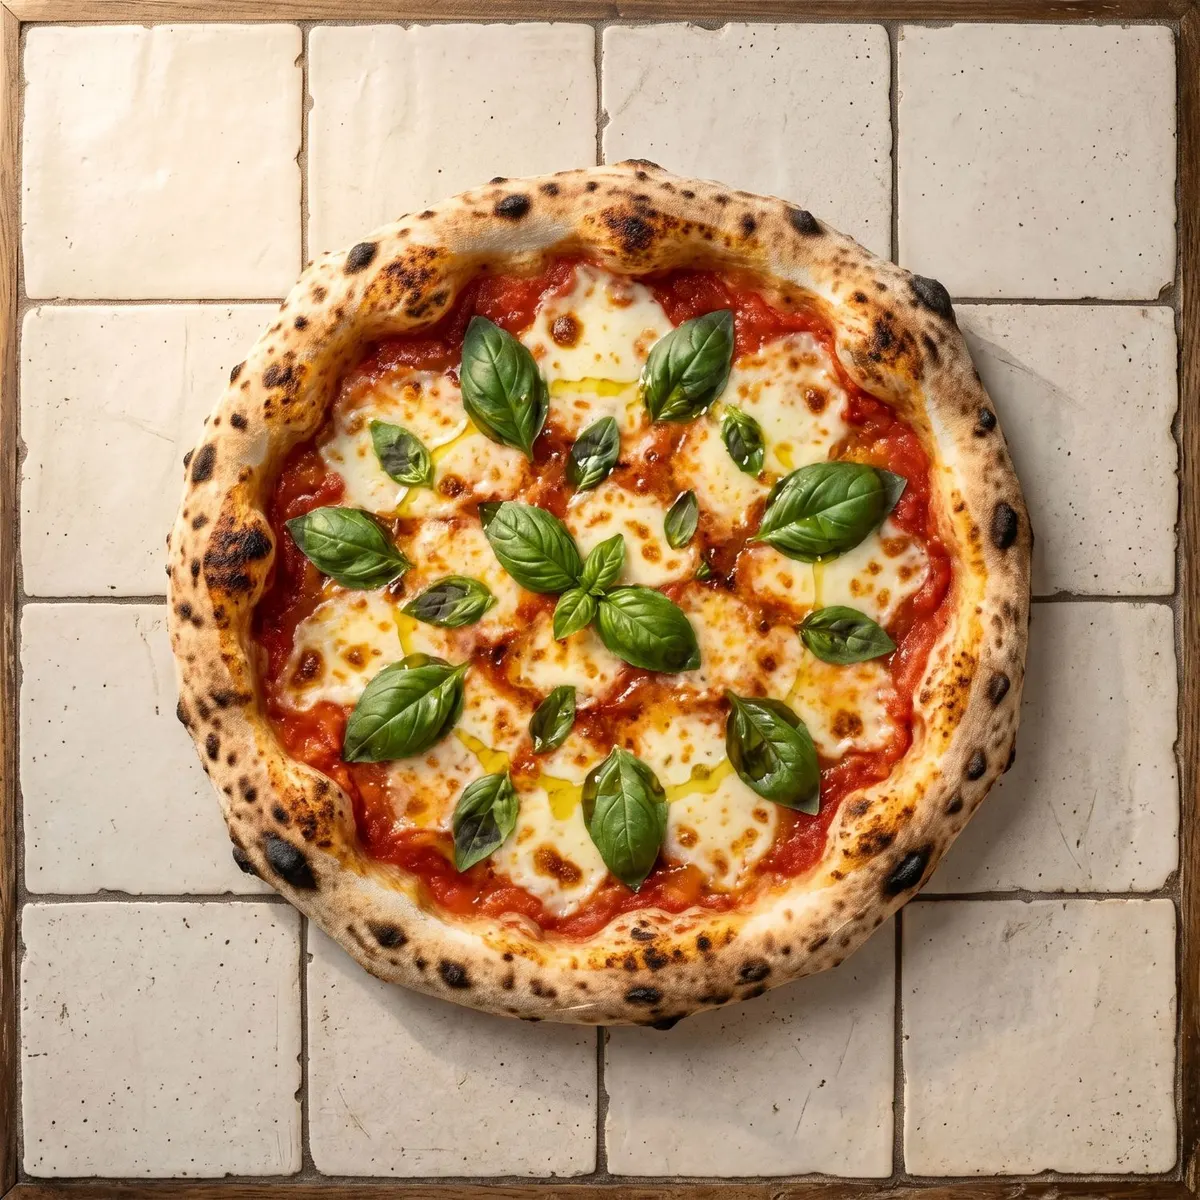
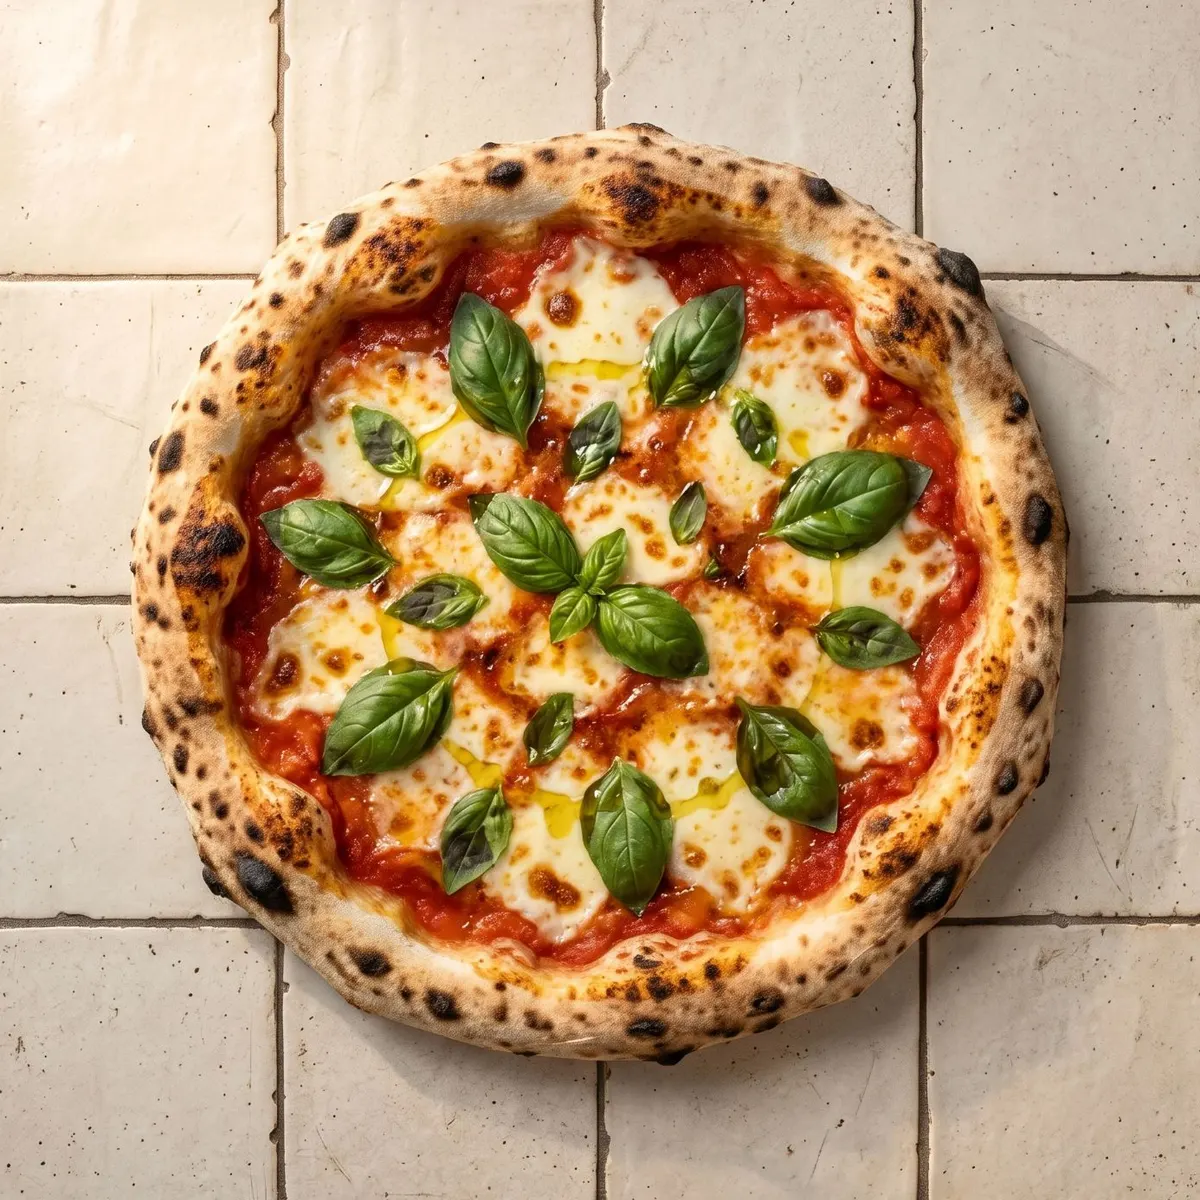
Recorta el marco de madera de cinco clasicas y arregla Nuestra historia en movil
Las fotos de Margarita, Prosciutto, Hawaiana, Salami y Pepperoni
traian un marco de madera que no tiene el resto. En Nuestra historia
el texto se rompia en cinco lineas y las nubes tapaban las palabras.

Claude-Session: https://claude.ai/code/session_011JAHqVBjNfak5pUxNHmvGn

diff --git a/src/components/Story.jsx b/src/components/Story.jsx
@@ -46,8 +46,8 @@ export default function Story() {
             d="M0,0H1440V22c-22,0-30,14-30,30s-14,24-26,24-26-10-26-26-12-26-34-28c-40-4-58,6-96,6s-42-8-70-8-30,22-30,40-12,26-24,26-24-10-24-28-14-34-50-36c-44-2-70,8-120,8s-60-6-86-6-34,14-34,30-10,22-22,22-22-10-22-24-18-30-58-32c-48-2-66,4-104,4s-52-6-80-6-30,24-30,44-12,30-26,30-26-12-26-30-10-40-44-42c-38-2-62,6-100,6S250,20,222,20s-32,16-32,32-12,26-26,26-26-12-26-26S120,22,86,22C52,22,34,30,0,30Z"
           />
         </svg>
-        <Cloud className="absolute top-44 left-[3%] w-24 sm:w-32" />
-        <Cloud className="absolute top-60 right-[5%] w-28 sm:w-36" />
+        <Cloud className="absolute top-16 left-[3%] w-16 sm:top-44 sm:w-32" />
+        <Cloud className="absolute top-20 right-[5%] w-16 sm:top-60 sm:w-36" />
         <Cloud className="hidden sm:block absolute bottom-40 left-[14%] w-24" />
         <Cloud className="hidden sm:block absolute bottom-56 right-[15%] w-20" />
 
@@ -56,7 +56,8 @@ export default function Story() {
             · {STORY.title} ·
           </h2>
           <p className="story-in mx-auto mt-16 max-w-[68rem] font-display font-bold text-[clamp(1.4rem,2.9vw,2.625rem)] leading-none">
-            {STORY.lines.map((l) => <span key={l} className="block">{l}</span>)}
+            {/* En móvil el texto fluye como un párrafo; los saltos de línea solo desde sm */}
+            {STORY.lines.map((l) => <span key={l} className="sm:block">{l}{' '}</span>)}
           </p>
 
           <div className="story-in mt-10 flex justify-center">
